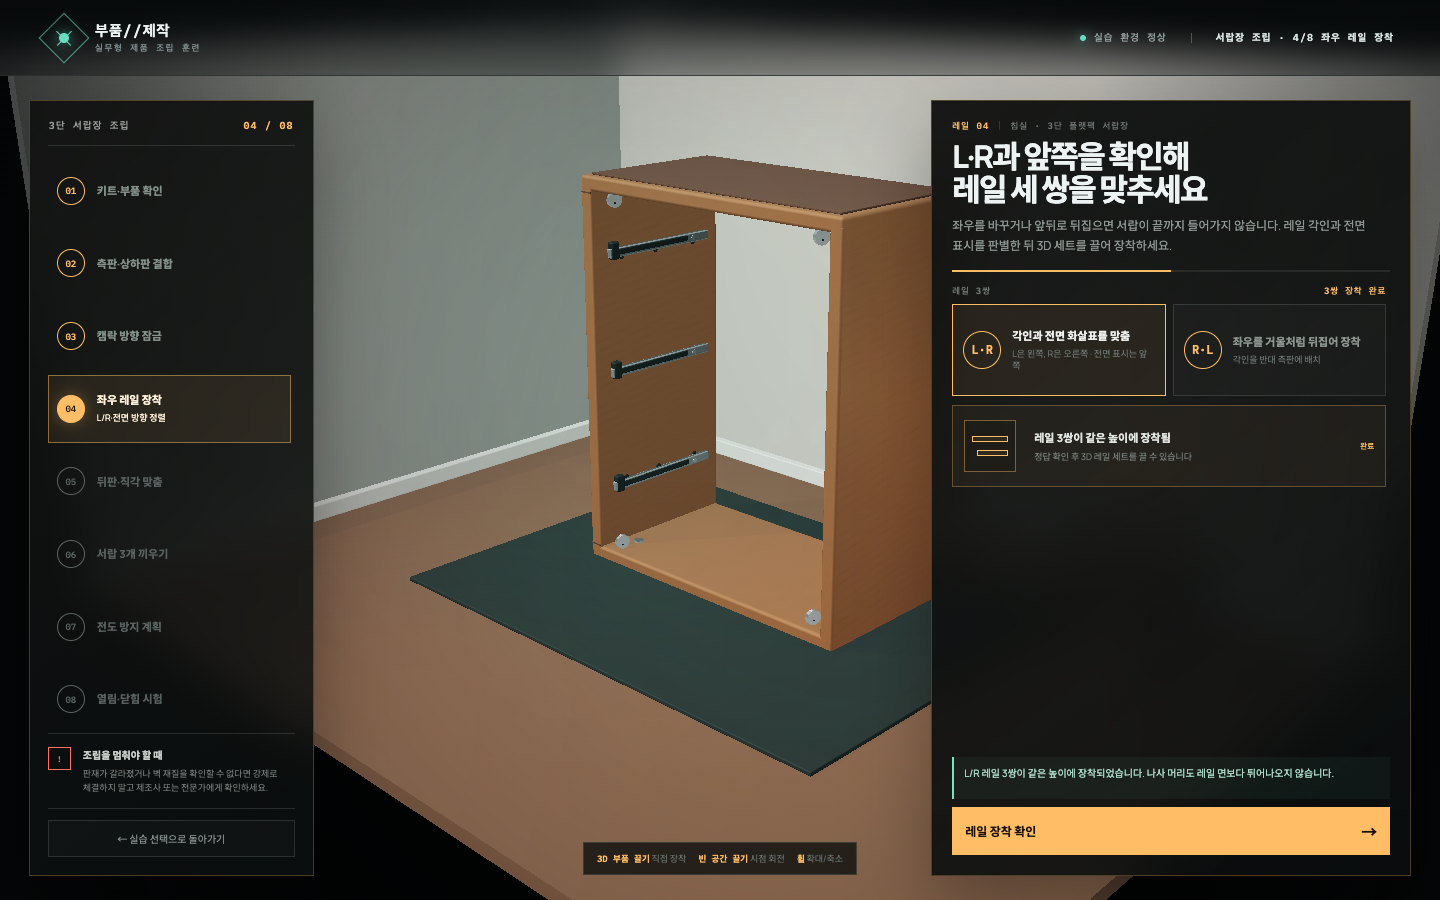
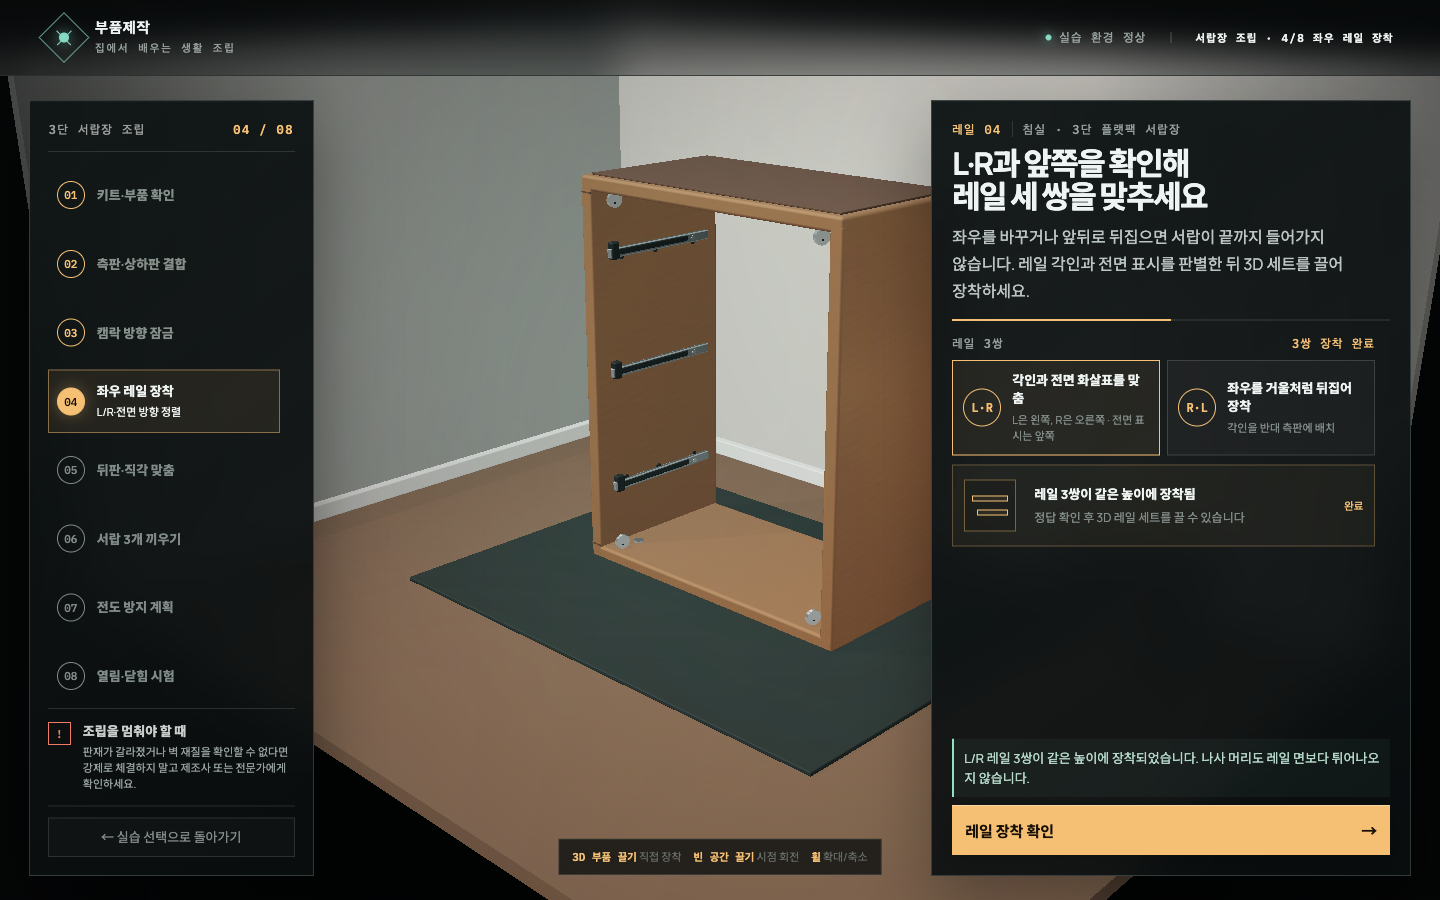
style(design): FINDING-001 — restore readable interface hierarchy

diff --git a/src/style.css b/src/style.css
@@ -1277,3 +1277,390 @@ button { border: 0; }
   .module-card-copy em { margin-top: 5px; font-size: 9px; line-height: 1.4; }
   .module-card > .module-card-arrow { width: 30px; height: 30px; font-size: 15px; }
 }
+
+/* Legibility system: keep the 3D workspace large and let information panels scroll. */
+:root {
+  --type-micro: 11px;
+  --type-caption: 12px;
+  --type-label: 13px;
+  --type-body: 15px;
+  --type-body-strong: 16px;
+}
+
+/* Global chrome and lobby */
+.brand small,
+.loading-screen p,
+.module-picker-heading small { font-size: var(--type-micro); line-height: 1.35; }
+.session-meta,
+.eyebrow,
+.intro-metrics small,
+.module-card-number { font-size: var(--type-caption); line-height: 1.35; }
+.module-picker-heading p { font-size: var(--type-label); }
+.module-card-copy small {
+  display: -webkit-box;
+  min-height: 27px;
+  overflow: hidden;
+  font-size: var(--type-micro);
+  line-height: 1.35;
+  text-overflow: clip;
+  white-space: normal;
+  -webkit-box-orient: vertical;
+  -webkit-line-clamp: 2;
+}
+.module-card-copy b { font-size: 17px; }
+.module-card-copy em { font-size: var(--type-label); line-height: 1.55; }
+
+/* Fluorescent, shower-filter, and drawer workspaces */
+.fluorescent-route-heading,
+.fluorescent-guide-heading > p:first-child,
+.fluorescent-section-label { font-size: var(--type-caption); line-height: 1.35; }
+.fluorescent-route > div { min-height: 62px; }
+.fluorescent-route > div > i,
+.fluorescent-route small,
+.fluorescent-stop-card span { font-size: var(--type-micro); line-height: 1.45; }
+.fluorescent-route b,
+.fluorescent-stop-card b,
+.fluorescent-menu-button { font-size: var(--type-label); line-height: 1.35; }
+.fluorescent-guide-heading > p:last-child { font-size: var(--type-body-strong); line-height: 1.7; }
+.fluorescent-clue { min-height: 116px; }
+.fluorescent-clue small,
+.fluorescent-product-copy small,
+.fluorescent-safety-list i,
+.fluorescent-safety-list small,
+.fluorescent-safety-list em,
+.fluorescent-test-state small,
+.fluorescent-disposal-options small,
+.fluorescent-disposal-options em,
+.fluorescent-camera-help { font-size: var(--type-micro); line-height: 1.45; }
+.fluorescent-clue b,
+.fluorescent-product-copy b,
+.fluorescent-safety-list b,
+.fluorescent-disposal-options b { font-size: var(--type-label); line-height: 1.4; }
+.fluorescent-clue span,
+.fluorescent-product-copy span,
+.fluorescent-spec-sheet b,
+.fluorescent-dial-ring > b,
+.fluorescent-test-state b,
+.fluorescent-test dl div { font-size: var(--type-caption); line-height: 1.5; }
+.fluorescent-spec-sheet small { font-size: var(--type-micro); line-height: 1.35; }
+.fluorescent-product-copy strong { font-size: 14px; }
+.fluorescent-compare,
+.fluorescent-safety-note,
+.fluorescent-turn-help { font-size: var(--type-label); line-height: 1.6; }
+.fluorescent-feedback { min-height: 46px; font-size: var(--type-label); line-height: 1.55; }
+.fluorescent-action { min-height: 50px; font-size: var(--type-body); }
+
+.shower-drag-source > small,
+.shower-filter-slot > small,
+.shower-drag-source button em,
+.shower-filter-slot > span,
+.shower-oring-button small,
+.shower-oring-button em,
+.shower-flush-button em,
+.shower-test-results small { font-size: var(--type-micro); line-height: 1.45; }
+.shower-drag-source button span,
+.shower-filter-slot > b,
+.shower-oring-button b,
+.shower-flush-button b,
+.shower-test-results b { font-size: var(--type-label); line-height: 1.4; }
+
+/* Drawer-specific controls */
+.drawer-kit-card small,
+.drawer-inventory b em,
+.drawer-inventory small,
+.drawer-inventory strong,
+.drawer-task-visual em,
+.drawer-check-list small,
+.drawer-check-list em,
+.drawer-cam-diagram > em,
+.drawer-choice-grid small,
+.drawer-slot-list i,
+.drawer-slot-list em,
+.drawer-anchor-step > span,
+.drawer-test-buttons small,
+.drawer-test-buttons em { font-size: var(--type-micro); line-height: 1.45; }
+.drawer-kit-card em,
+.drawer-task-visual small { font-size: var(--type-caption); line-height: 1.5; }
+.drawer-kit-card b { font-size: var(--type-body-strong); }
+.drawer-kit-card strong { font-size: var(--type-label); white-space: nowrap; }
+.drawer-inventory b,
+.drawer-slot-list b,
+.drawer-anchor-step button { font-size: var(--type-caption); line-height: 1.4; }
+.drawer-task-visual b,
+.drawer-check-list b,
+.drawer-choice-grid b,
+.drawer-diagonal-choices b,
+.drawer-test-buttons b { font-size: var(--type-label); line-height: 1.4; }
+.drawer-field-note { font-size: var(--type-label); line-height: 1.6; }
+
+/* PC purchase flow */
+.shop-nav-heading,
+.cart-heading,
+.shop-stage-heading > p:first-child { font-size: var(--type-caption); line-height: 1.35; }
+.shop-categories > p,
+.shop-category > i,
+.shop-category small,
+.shop-category em,
+.shop-nav-note,
+.product-photo-label,
+.product-visual b,
+.product-copy > small,
+.product-copy > em,
+.product-price i,
+.cart-lines small,
+.cart-total small,
+.price-meta,
+.price-notice { font-size: var(--type-micro); line-height: 1.45; }
+.shop-category { min-height: 58px; }
+.shop-category b,
+.cart-lines strong,
+.cart-total span { font-size: var(--type-caption); line-height: 1.4; }
+.shop-stage-heading > p:last-child { font-size: var(--type-body-strong); line-height: 1.7; }
+.product-copy > p { font-size: var(--type-body); line-height: 1.6; }
+.shop-option > a { min-height: 44px; height: auto; padding-block: 14px; font-size: var(--type-caption); }
+.shop-assurance span,
+.shop-assurance i { font-size: var(--type-micro); line-height: 1.5; }
+.shop-assurance b,
+.cart-lines b { font-size: var(--type-label); line-height: 1.4; }
+.purchase-button { min-height: 54px; font-size: var(--type-body); }
+
+/* PC assembly workspace */
+.panel-heading,
+.guide-progress { font-size: var(--type-caption); line-height: 1.35; }
+.part-card { min-height: 64px; }
+.part-index,
+.part-copy small,
+.part-state,
+.inventory-note b,
+.inventory-note span,
+.step-kicker,
+.guide-phases span,
+.guide-phases i,
+.variant-card .variant-badge,
+.variant-card small,
+.variant-card > i,
+.placement-guide span,
+.warning-card span,
+.drag-status small,
+.camera-help,
+.camera-help span b,
+.part-callout span,
+.drag-coach span { font-size: var(--type-micro); line-height: 1.45; }
+.part-copy b,
+.variant-heading b,
+.variant-card b,
+.spec-list dt,
+.spec-list dd,
+.dock-actions span,
+.part-callout b,
+.drag-coach b { font-size: var(--type-label); line-height: 1.4; }
+.variant-heading span { font-size: var(--type-label); }
+.step-copy { font-size: var(--type-body-strong); line-height: 1.7; }
+.variant-card p,
+.placement-guide p,
+.warning-card p { font-size: var(--type-label); line-height: 1.6; }
+.drag-status b { font-size: var(--type-body); line-height: 1.45; }
+.drag-status > i,
+.toast { font-size: var(--type-label); line-height: 1.5; }
+.dock-actions button { min-height: 44px; }
+
+/* Completion and result states */
+.completion-panel > p,
+.fluorescent-completion-panel > p:first-child,
+.power-state span,
+.fluorescent-result-light span,
+.shower-result-water span,
+.completion-total span,
+.score-row small,
+.completion-camera-help,
+.fluorescent-result-grid small { font-size: var(--type-micro); line-height: 1.45; }
+.power-state b,
+.fluorescent-result-light b,
+.shower-result-water b,
+.post-list span { font-size: var(--type-label); line-height: 1.45; }
+.fluorescent-learning { font-size: var(--type-label); line-height: 1.65; }
+
+@media (max-width: 760px) {
+  .intro-lede { font-size: var(--type-body-strong); line-height: 1.75; }
+  .eyebrow,
+  .intro-metrics small,
+  .module-picker-heading small,
+  .module-picker-heading p,
+  .module-card-copy small { font-size: var(--type-micro); }
+  .module-card-copy em { font-size: var(--type-caption); line-height: 1.5; }
+  .module-card { min-height: 120px; }
+  .fluorescent-route b { font-size: var(--type-caption); }
+  .fluorescent-menu-button { min-height: 44px; font-size: var(--type-caption); }
+  .guide-progress,
+  .step-kicker { font-size: var(--type-micro); }
+  .step-copy { font-size: var(--type-body); line-height: 1.65; }
+  .part-copy b { font-size: var(--type-caption); }
+  .part-copy small,
+  .part-state { font-size: var(--type-micro); }
+}
+
+/* Interface polish: stronger hierarchy without adding more chrome. */
+:root {
+  --text-primary: #edf4f2;
+  --text-secondary: #b8c4c1;
+  --text-muted: #929f9c;
+  --text-faint: #7d8a87;
+  --surface-raised: rgba(15, 21, 22, .96);
+  --surface-soft: rgba(255, 255, 255, .035);
+}
+
+.app:not([data-mode="intro"]) { color-scheme: dark; }
+.app { text-rendering: optimizeLegibility; }
+::selection { color: #07110f; background: #8ce8d4; }
+
+:where(button, a):focus-visible {
+  outline: 2px solid var(--mint);
+  outline-offset: 3px;
+  box-shadow: 0 0 0 5px rgba(103, 220, 194, .13);
+}
+
+* { scrollbar-color: rgba(103, 220, 194, .5) rgba(255, 255, 255, .025); }
+*::-webkit-scrollbar-thumb { background: rgba(103, 220, 194, .5); background-clip: padding-box; }
+
+.app[data-mode="intro"] .session-meta { font-size: var(--type-caption); line-height: 1.35; }
+.app[data-mode="intro"] .brand small,
+.session-meta strong,
+.intro-metrics b,
+.shop-nav-note i,
+.inventory-note > i,
+.fluorescent-stop-card > i,
+.drawer-inventory button > i { font-size: var(--type-micro); line-height: 1; }
+.drawer-inventory-heading { font-size: var(--type-caption); line-height: 1.35; }
+.app:not([data-mode="intro"]) .brand small,
+.app:not([data-mode="intro"]) .session-meta span { color: var(--text-muted); }
+.app:not([data-mode="intro"]) .session-meta strong { color: var(--text-primary); }
+
+.inventory-panel,
+.guide-panel,
+.fluorescent-route-panel,
+.fluorescent-guide-panel {
+  border-color: rgba(188, 224, 218, .2);
+  background: linear-gradient(145deg, rgba(15, 21, 22, .97), rgba(9, 14, 15, .91));
+  box-shadow: 0 26px 72px rgba(0, 0, 0, .34), inset 0 1px rgba(255, 255, 255, .025);
+}
+
+.guide-panel,
+.fluorescent-route,
+.fluorescent-view,
+.shop-categories,
+.shop-options,
+.cart-lines,
+.part-list { scrollbar-gutter: stable; }
+
+.fluorescent-route > div { color: var(--text-faint); }
+.fluorescent-route > div.is-active { color: var(--text-primary); }
+.fluorescent-stop-card span,
+.fluorescent-guide-heading > p:first-child,
+.fluorescent-section-label,
+.shop-categories > p,
+.panel-heading span,
+.step-kicker { color: var(--text-muted); }
+.fluorescent-guide-heading > p:last-child,
+.shop-stage-heading > p:last-child,
+.step-copy,
+.drawer-field-note { color: var(--text-secondary); }
+
+.fluorescent-clue,
+.fluorescent-product,
+.fluorescent-safety-list button,
+.fluorescent-disposal-options button,
+.drawer-kit-card,
+.drawer-inventory button,
+.drawer-check-list li,
+.drawer-choice-grid button,
+.drawer-diagonal-choices button,
+.drawer-test-buttons button,
+.variant-card {
+  border-color: rgba(204, 228, 224, .17);
+  background: var(--surface-soft);
+}
+
+.fluorescent-clue span,
+.fluorescent-product-copy span,
+.fluorescent-safety-list small,
+.fluorescent-disposal-options small,
+.drawer-kit-card em,
+.drawer-inventory small,
+.drawer-task-visual small,
+.drawer-check-list small,
+.drawer-choice-grid small,
+.drawer-test-buttons small,
+.part-copy small,
+.inventory-note span,
+.variant-card small,
+.variant-card p,
+.warning-card p { color: var(--text-faint); }
+
+.fluorescent-clue b,
+.fluorescent-product-copy b,
+.fluorescent-spec-sheet b,
+.fluorescent-safety-list b,
+.fluorescent-disposal-options b,
+.drawer-kit-card b,
+.drawer-inventory b,
+.drawer-task-visual b,
+.drawer-check-list b,
+.drawer-choice-grid b,
+.drawer-test-buttons b,
+.part-copy b,
+.variant-card b,
+.spec-list dd { color: var(--text-primary); }
+
+.shop-category { color: var(--text-muted); }
+.shop-category small,
+.shop-category > i,
+.product-copy > em,
+.product-price i,
+.cart-lines small,
+.cart-total small,
+.price-meta,
+.price-notice { color: var(--text-faint); }
+.product-copy > p,
+.cart-lines button,
+.shop-nav-note { color: var(--text-muted); }
+.cart-lines button:hover,
+.shop-category:hover { color: var(--text-primary); }
+
+.guide-phases span {
+  border-color: rgba(199, 225, 221, .18);
+  color: var(--text-muted);
+  background: rgba(255, 255, 255, .025);
+}
+.guide-phases span.is-active {
+  border-color: rgba(103, 220, 194, .72);
+  color: #8ce8d4;
+  background: rgba(103, 220, 194, .11);
+}
+.placement-guide { border-left-width: 3px; background: rgba(103, 220, 194, .075); }
+.warning-card { border-left-width: 3px; background: rgba(255, 174, 84, .075); }
+.drag-status { background: rgba(255, 255, 255, .045); }
+.toast { border-color: rgba(188, 224, 218, .22); background: rgba(9, 14, 15, .95); }
+
+.purchase-button,
+.fluorescent-action,
+.completion-panel button,
+.fluorescent-completion-panel button {
+  box-shadow: inset 0 1px rgba(255, 255, 255, .35), 0 10px 24px rgba(0, 0, 0, .18);
+  transition: filter 160ms ease, transform 160ms ease, box-shadow 160ms ease;
+}
+.purchase-button:hover:not(:disabled),
+.fluorescent-action:hover:not(:disabled),
+.completion-panel button:hover,
+.fluorescent-completion-panel button:hover { filter: brightness(1.08); box-shadow: inset 0 1px rgba(255, 255, 255, .42), 0 13px 30px rgba(0, 0, 0, .26); }
+.purchase-button:active:not(:disabled),
+.fluorescent-action:active:not(:disabled),
+.completion-panel button:active,
+.fluorescent-completion-panel button:active { transform: translateY(1px); }
+
+@media (max-width: 760px) {
+  :where(button, a):focus-visible { outline-offset: 2px; }
+  .fluorescent-route-panel,
+  .fluorescent-guide-panel,
+  .inventory-panel,
+  .guide-panel { box-shadow: 0 18px 46px rgba(0, 0, 0, .32), inset 0 1px rgba(255, 255, 255, .025); }
+}
